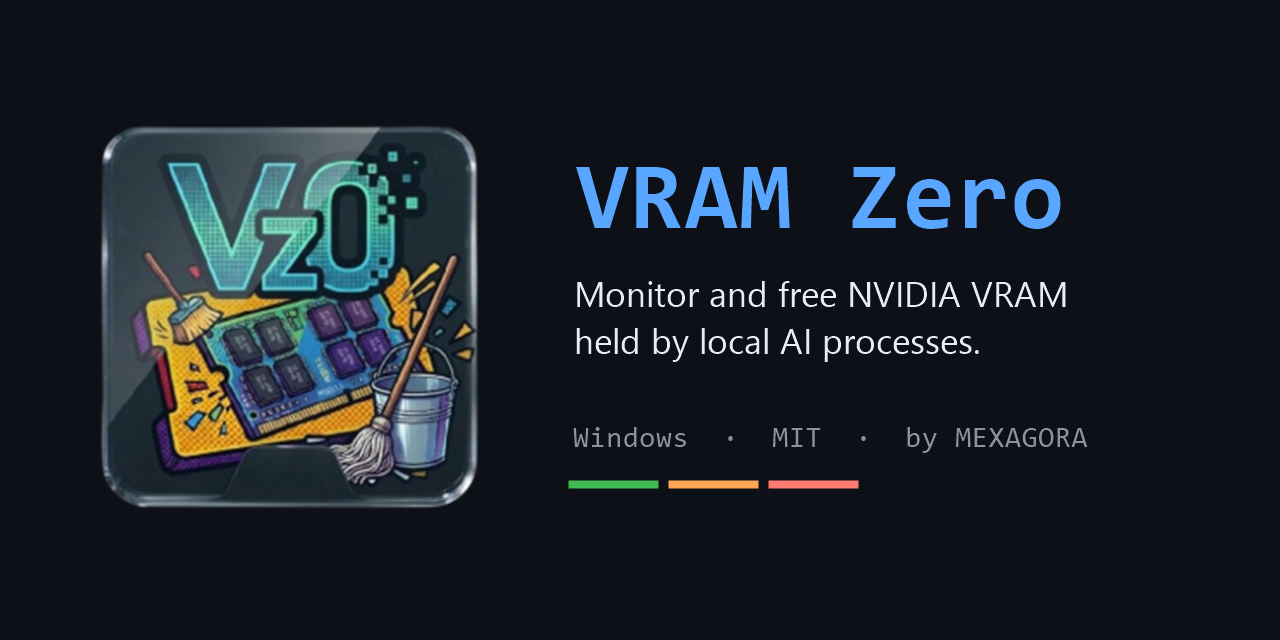
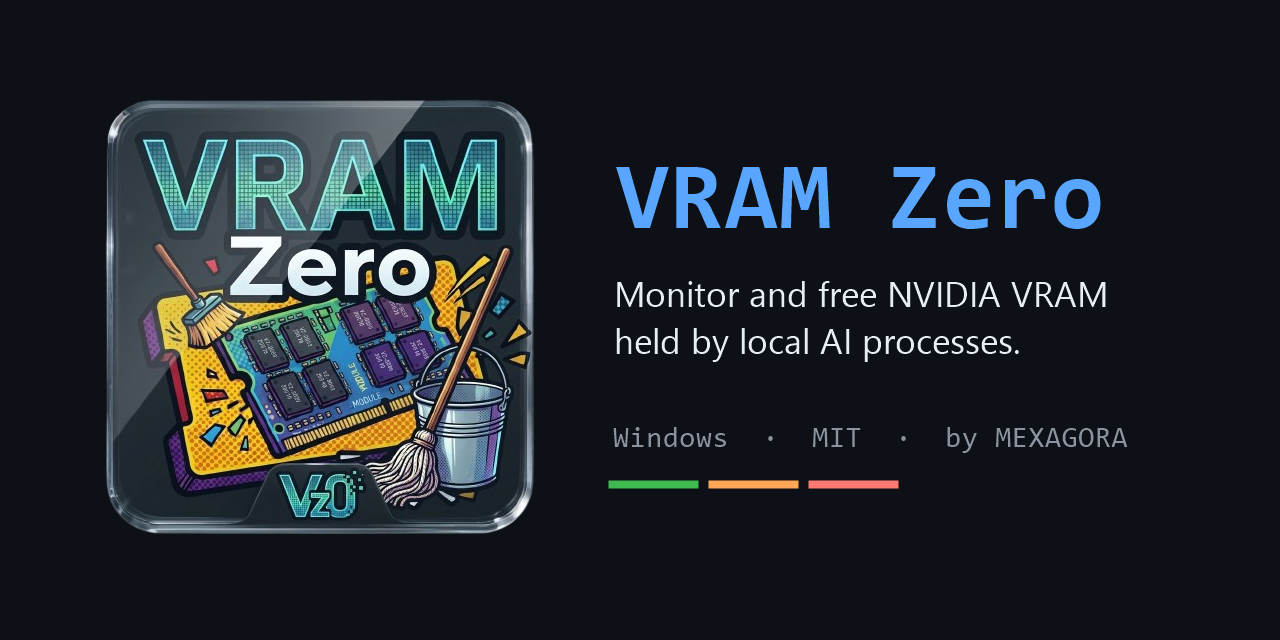
README: add illustration, winget submission status; refresh social preview

Changed region(s): [[0.0625, 0.1562, 0.875, 0.8438], [0.5938, 0.6562, 0.875, 0.7188], [0.5938, 0.75, 0.7188, 0.7812]]

diff --git a/README.md b/README.md
@@ -1,6 +1,6 @@
-<div align="center">
+<div align="center">
 
-<img src="assets/vram_zero_popart.png" alt="VRAM Zero" width="160">
+<img src="docs/images/illustration-VRAM-Zero.png" alt="VRAM Zero" width="220">
 
 # VRAM Zero
 
@@ -44,7 +44,7 @@ VRAM Zero shows what uses your GPU memory, tells local AI tools apart from every
 
 **Requirements:** Windows 10 or 11 (64-bit), an NVIDIA GPU with its driver installed (provides `nvidia-smi`).
 
-> **winget:** a package submission is planned. This page will be updated when it is available.
+> **winget:** a package has been submitted ([pull request](https://github.com/microsoft/winget-pkgs/pull/458325)). Once accepted it will be installable with `winget install MEXAGORA.VRAMZero`.
 
 ### Verify the download
 

diff --git a/README.fr.md b/README.fr.md
@@ -1,6 +1,6 @@
 <div align="center">
 
-<img src="assets/vram_zero_popart.png" alt="VRAM Zero" width="160">
+<img src="docs/images/illustration-VRAM-Zero.png" alt="VRAM Zero" width="220">
 
 # VRAM Zero
 
@@ -44,7 +44,7 @@ VRAM Zero affiche ce qui occupe la mémoire de votre GPU, distingue les outils d
 
 **Prérequis :** Windows 10 ou 11 (64 bits), une carte NVIDIA avec son pilote installé (fournit `nvidia-smi`).
 
-> **winget :** une soumission de paquet est prévue. Cette page sera mise à jour à sa disponibilité.
+> **winget :** un paquet a été soumis ([pull request](https://github.com/microsoft/winget-pkgs/pull/458325)). Une fois accepté, il s'installera avec `winget install MEXAGORA.VRAMZero`.
 
 ### Vérifier le téléchargement
 
